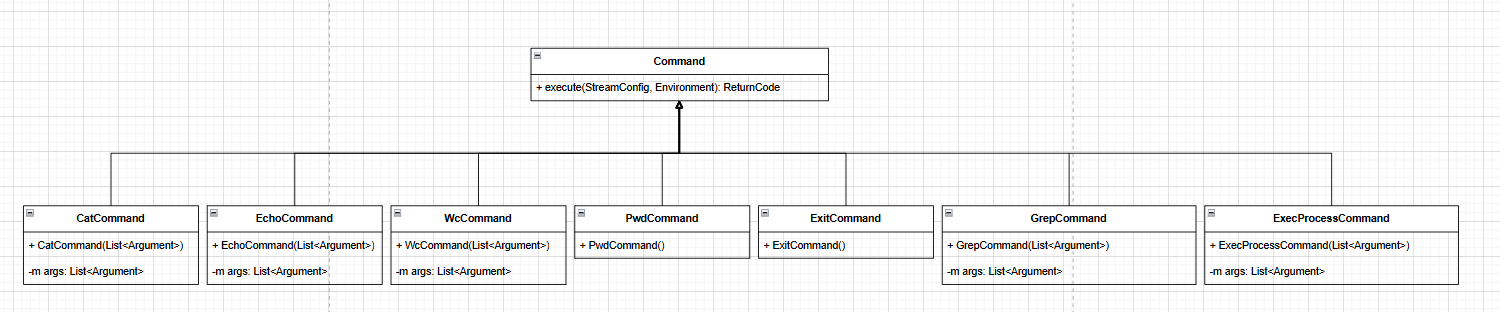
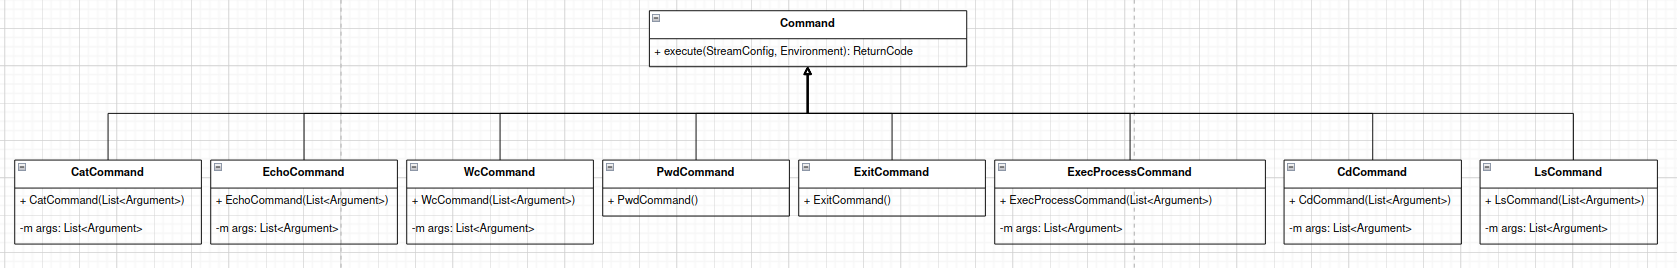
feat: add cd & ls to ARCH

Changed region(s): [[0.0, 0.4179, 1.0, 0.9552], [0.0, 0.0299, 1.0, 0.3582], [0.46, 0.3582, 0.4907, 0.3881]]

diff --git a/docs/ARCHITECTURE.md b/docs/ARCHITECTURE.md
@@ -24,21 +24,21 @@
 - Получить строку из потока ввода
 - Отправить ее в `CLIParser` (см. ниже)
 - Получить из парсера таску (см. ниже)
-    - `ModifyEnvironmentTask`: обновляем окружение новый key-value парой.
-    - `PipelineTask`: исполнить пайплайн комманд.
+  - `ModifyEnvironmentTask`: обновляем окружение новый key-value парой.
+  - `PipelineTask`: исполнить пайплайн комманд.
 
 ### 2. `CLIParser`
 
 Класс, который парсит из строки таски для исполнения интерпретатору:
 
 - `ModifyEnvironmentTask`: таска, соответствующая обновлению переменной в environment интерпретатора.
-  
-    Такая таска может быть только одна в входной строке, то есть такой ввод является корректным:
+
+  Такая таска может быть только одна в входной строке, то есть такой ввод является корректным:
     ```txt
     > VAR1=value
     ```
-        
-    
+
+
     В то время как такие нет:
     ```txt
     > VAR1=value | VAR2=value | ...
@@ -47,13 +47,13 @@
 
     То есть изменение окружения **не может быть** запайплено и **не может быть** частью пайплайна обычных комманд. В bash установка окружения через пайпы возможна и разумна, если мы, например, хотим для какой-то одной команды из пайпа установить переменную окружения, а для остальных не хотим (к примеру, `VAR1=value1 && cmd1 | VAR2=value2 && cmd2`). Но у нас в задаче нет синтаксиса `&&`, поэтому мы просто запрещаем такое писать.
 
-- `PipelineTask`: таска, соответствующая исполнению пайпалайна из одной или нескольких комманд (с учетом, что изменения окружения в пайплайне быть не может). 
+- `PipelineTask`: таска, соответствующая исполнению пайпалайна из одной или нескольких комманд (с учетом, что изменения окружения в пайплайне быть не может).
   - Код возрата берется из последней комманды (по аналогии как сделано в bash по дефолту - без применения команды `set -o pipefail`).
   - Для того, чтобы связать потоки ввода/вывода между соседними командами пайплайна, используется метод команды `Command::execute(StreamConfig, Environment)`, где первым параметром передается конфиг. Пусть мы запускаем комманду по номером `i`, тогда:
     - в поле stdin записывается stdout команды `i - 1`
     - в поле stdout записывается stdin команды `i + 1`
     - stderr мы всем задаем тот, что был передан в конфиге интерпретатора (то есть все комманды пишут свои ошибки в один поток ошибок, что соотносится с тем, как работает bash пайпы)
-  
+
   Подробнее про комманды, см. ниже.
 
 <p align="center">
@@ -66,7 +66,7 @@
 
 Абракция, реализуюшая интерфейс комманды. Она имеет метод `execute(StreamConfig, Environment): ReturnCode`, принимающая конфиг из потоков (in, out, err) и окружения и возвращающая свой код возврата.
 
-Все кастомные комманды (`cat`, `echo`, `wc`, `grep`, `pwd`, `exit`) и те, что требуют запуска отдельного процесса, являются наследниками интерфейса `Command` и получают нужный им для работы набор аргументов в контрукторе.
+Все кастомные комманды (`cat`, `echo`, `wc`, `grep`, `pwd`, `cd`, `ls`, `exit`) и те, что требуют запуска отдельного процесса, являются наследниками интерфейса `Command` и получают нужный им для работы набор аргументов в контрукторе.
 
 <p align="center">
     <img src="../assets/readme/command.png" width="1200" alt="commands">
@@ -94,7 +94,7 @@ PipelineTask:
   - Подстановка переменных окружения происходит при попытке получить представление аргумента как строчки (в момент создания класса `Argument`, который при интепретации команды используется). Конкретно подстановка происходит при вызове метода `Argument::evaluateAsString(Environment)`, в который передается окружение. Из него будут браться значения для переменных окружения, и если какая-та переменная там отсутствует, то вместо нее подставится пустая строка.
 
 
-Для того, чтобы инстанциировать нужный тип аргумента из его строкового представления, предусмотрен статический метод `Argument::constructFromString(String)`. Он принимает строчку (то есть аргумент комманды, как он передан пользователем), внутри которого происходит анализ этой строчки и принимается решение о том, какой из аргументов сконструировать, либо выкинуть ошибку парсинга. 
+Для того, чтобы инстанциировать нужный тип аргумента из его строкового представления, предусмотрен статический метод `Argument::constructFromString(String)`. Он принимает строчку (то есть аргумент комманды, как он передан пользователем), внутри которого происходит анализ этой строчки и принимается решение о том, какой из аргументов сконструировать, либо выкинуть ошибку парсинга.
 
 <p align="center">
     <img src="../assets/readme/value.png" width="600" alt="values">
@@ -134,18 +134,18 @@ PipelineTask:
 
 Когда пользователь вводит валидный инпут, то он представляет собой одно из следующих выражений:
 - Изменение переменной окружения, где
-    - `Key`: непустая строка, содержащая только символы из набора (1).
-    - `Val`: строка (возможно пустая), которая состоит из символов из наборов (1), (2) и (3). Если это строка заключается в кавычки `'` или `"`, то внутри них строка может содержать кавычки противоположного типа и в дополнение к предыдущим наборам еще и набор символов (4) и другие символы с клавиатуры. `Key` в архитектуре приложения будет представлен в виде `String`, а `Val` спарсится классом `Value` из архитектуры приложения, на котором будет вызван метод `evaluateToString(Environment)`, а вернувшаяся строка будет использована для обновления текущей `Environment` по ключу `Key`. 
+  - `Key`: непустая строка, содержащая только символы из набора (1).
+  - `Val`: строка (возможно пустая), которая состоит из символов из наборов (1), (2) и (3). Если это строка заключается в кавычки `'` или `"`, то внутри них строка может содержать кавычки противоположного типа и в дополнение к предыдущим наборам еще и набор символов (4) и другие символы с клавиатуры. `Key` в архитектуре приложения будет представлен в виде `String`, а `Val` спарсится классом `Value` из архитектуры приложения, на котором будет вызван метод `evaluateToString(Environment)`, а вернувшаяся строка будет использована для обновления текущей `Environment` по ключу `Key`.
 
   ```txt
   ModifyEnviromentTask:
   > Key=Val
   ```
 - Исполнение пайплайна из одной или более комманд, где
-    - `Command`: непустая строка, содержащая символы, из наборов (1), (2) (мы не разрешаем поведение bash'а, в котором есть подставновка переменных окружения в вызовы комманд).
-    - `Value`: строковое представление аргумента (но аргументов может не быть вовсе), где применяются следующие правила парсинга:
-      - если аргумент не обернут в кавычки, то он является непустой строкой, содержащей только символы из наборов (1), (2), (3).
-      - если аргумент обернут в кавычки (`'` или `"`), то к нему примеются те же правила, что описаны для `Val` в пункте про парсинг `ModifyEnviromentTask`.
+  - `Command`: непустая строка, содержащая символы, из наборов (1), (2) (мы не разрешаем поведение bash'а, в котором есть подставновка переменных окружения в вызовы комманд).
+  - `Value`: строковое представление аргумента (но аргументов может не быть вовсе), где применяются следующие правила парсинга:
+    - если аргумент не обернут в кавычки, то он является непустой строкой, содержащей только символы из наборов (1), (2), (3).
+    - если аргумент обернут в кавычки (`'` или `"`), то к нему примеются те же правила, что описаны для `Val` в пункте про парсинг `ModifyEnviromentTask`.
       Впоследствии, `Value` с помощью метода `evaluateToString(Environment)` приводятся к строке, из которой конструируется класс `Argument`, использующийся при интерпретации комманд, в котором уже нет никакой логики с подстановками.
   ```txt
   PipelineTask:
